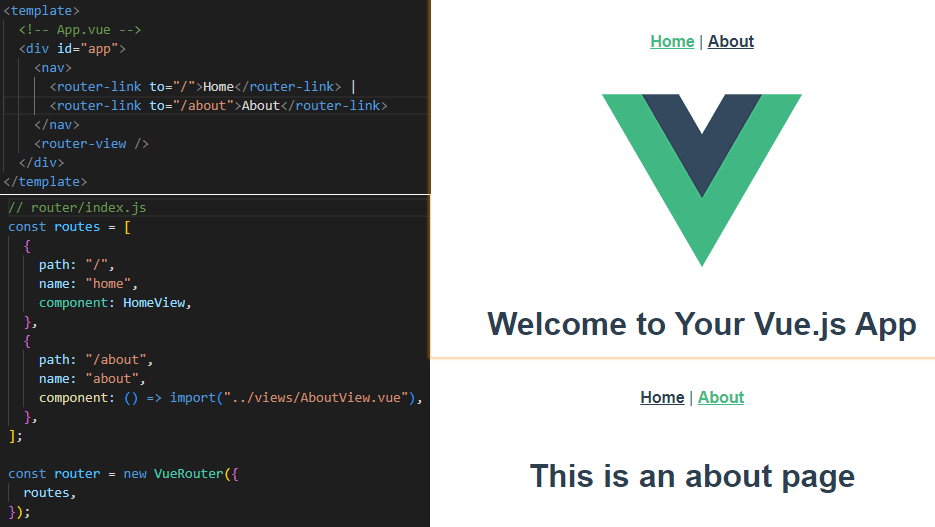
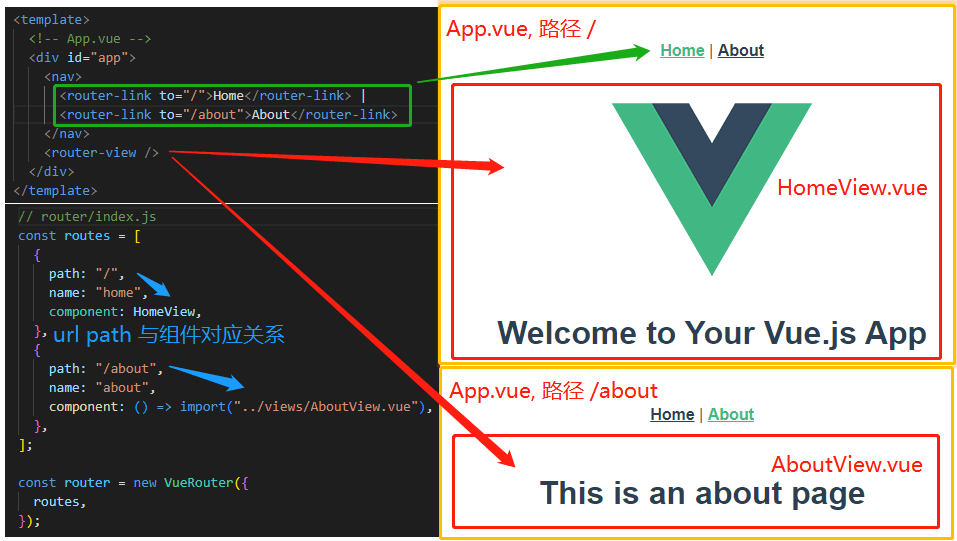
feat(2022-07): 更新 vue-router 实现文档，重新梳理叙述结构

Changed region(s): [[0.0, 0.0, 1.0, 1.0], [0.2791, 0.4554, 0.3412, 0.5465]]

diff --git a/src/notes/2022/7/vue2全家桶实现_1_手写实现vue_router_.md b/src/notes/2022/7/vue2全家桶实现_1_手写实现vue_router_.md
@@ -1,6 +1,8 @@
 # Vue2全家桶实现: (1)手写实现vue-router
 
-## 准备工作
+## vue-router 相关面试题
+
+## 实现前准备工作
 
 首先我们使用 `@vue/cli` 生成一个基本的脚手架
 
@@ -11,19 +13,66 @@ vue create vue2-implement
 
 选择 vue2 + vue-router/hash模式 + js + vuex + eslint/prettier + sass + pnpm
 
-在 github/github/... 上创建一个同名仓库，将该项目同步到远程仓库，防止电脑更换，代码丢失
+在 github/gitlab/gitee... 上创建一个同名仓库，将该项目同步到远程仓库，防止电脑更换，代码丢失
 
 ![code_router_1_prepare.png](../../../../src/images/blog/vue-source/code_router_1_prepare.png)
 
-## 实现思路
+## vue-router基础使用与运行原理
+
+下来看下面这张图
+
+```bash
+# 页面 URL(hash模式)
+http://localhost:8080/#/  # 首页
+http://localhost:8080/#/about # 关于
+```
+
+- App.vue 结构页中 router-view 组件用于占位
+
+- 当监听到页面 url 变化时，根据 url - 组件对应关系更新 router-view 占位处显示的组件
+
+![code_router_3_router_replace.png](../../../../src/images/blog/vue-source/code_router_3_router_replace.png)
+
+更多细节
+
+- 单页面 url 切换，通过监听hashchange 或 history 相关 api触发，分别对应 hash / history 模式
+- url 与 组件对应关系，在 new VueRouter() 时，通过 routes 参数传递
+- router-view 通过 render 实现，可以根据当前 url （用一个变量存储）实时切换不同组件。当监听到页面url切换时，会修改该变量。
+- rotuer-link 以及程序化($router.push等)跳转，会根据路由模式(hash/history) 来决定以什么方式修改页面 url
+
+全局组件 router-view、router-link、$router 等是怎么注入到全局的？
+
+如下图，通过 Vue 插件规范，使用 Vue.use(VueRouter) ，实现 install 方法，注入逻辑
+
+![code_router_2_silu.png](../../../../src/images/blog/vue-source/code_router_2_silu.png)
+
+理论上 router/index.js 中可以拿到 router 实例，可以直接 Vue.use(MyPlugin, { someOption: true, router }) 将 router 实例传给 install 方法。
+
+但为什么需要导出 router 实例，然后在 main.js 中 new Vue() 时当做参数传入？这里作为一个思考题，下面我们来看具体实现
+
+```js
+// main.js
+import Vue from "vue";
+import App from "./App.vue";
+import router from "./router";
+import store from "./store";
+
+Vue.config.productionTip = false;
+
+new Vue({
+  router,
+  store,
+  render: (h) => h(App),
+}).$mount("#app");
+```
+
+## 开始实现
 
 vue-router 引入逻辑在 src/router/index.js 中，通过 "vue-router" npm 包引入 VueRouter。如果要手写 vue-router，可以从这里入手。
 
 ```js
 import VueRouter from "vue-router";
 ```
-
-![code_router_2_silu.png](../../../../src/images/blog/vue-source/code_router_2_silu.png)
 
 实现第一步：从我们自己写的 MyVueRouter.js 中引入 VueRouter
 
@@ -41,42 +90,46 @@ class MyVueRouter {
 export default MyVueRouter;
 ```
 
-第二步：实现基础方法、组件
+下面实现基础方法、组件
 
-- Vue.use(VueRouter) 需要实现 Vue 插件方法 VueRouter.install
-- const router = new VueRouter({ routes })；export default router; 需要实现 constructor 构造方法 ，处理传参，返回实例
+## new VueRouter 路由配置保存
 
-```bash
-# 页面 URL(hash模式)
-http://localhost:8080/#/  # 首页
-http://localhost:8080/#/about # 关于
-```
+const router = new VueRouter({ routes })；export default router; 需要实现 constructor 构造方法 ，处理传参，返回实例
 
-![code_router_3_router_replace.png](../../../../src/images/blog/vue-source/code_router_3_router_replace.png)
+### url地址与组件对应关系数据打平
 
-- 全局组件
-  - router-view 路由组件占位。url 改变，根据 routes 配置，将 router-view 替换为具体的组件
-  - router-link  a 标签封装
-- 路由切换替换 router-view 逻辑
-  - hash 模式，监听 hashchange 事件，window.addEventListener('hashchange', cb)
-  - history 模式，监听 history.back()、history.forward()、history.go() 等，参考：[url 变化监听 - 语雀](https://www.yuque.com/guoqzuo/csm14e/xwagc7#orG4y)
-- 查看以下代码，为什么在 router.js 中导出 router 后，在 new Vue 时作为参数传入，主要作用是什么？  注入 `$router` 到所有组件
+### url地址切换监听，更换页面组件
 
-```js
-// main.ts
-import Vue from "vue";
-import App from "./App.vue";
-import router from "./router";
-import store from "./store";
+路由切换替换 router-view 逻辑
 
-Vue.config.productionTip = false;
+- hash 模式，监听 hashchange 事件，window.addEventListener('hashchange', cb)
+- history 模式，监听 history.back()、history.forward()、history.go() 等，参考：[url 变化监听 - 语雀](https://www.yuque.com/guoqzuo/csm14e/xwagc7#orG4y)
 
-new Vue({
-  router,
-  store,
-  render: (h) => h(App),
-}).$mount("#app");
+## Vue.use(VueRouter) 插件 install 方法实现
 
-```
+Vue.use(VueRouter) 需要实现 Vue 插件方法 VueRouter.install
 
-- 程序化跳转、路由钩子
+全局组件
+
+- router-view 路由组件占位。url 改变时，根据 routes 配置，将 router-view 替换为具体的组件
+- router-link  a 标签封装
+
+### 全局组件 router-view
+
+### 全局组件 router-link
+
+### 全局变量 vue-router 实例 $router
+
+为什么在 router.js 中导出 router 后，在 new Vue 时作为参数传入，主要作用是什么？  
+
+注入 `$router` 到所有组件
+
+## 程序化跳转
+
+## 路由钩子（守卫）
+
+## vue-router 插件
+
+## 转载声明
+
+除 微信公众号 可以转载外，其他平台禁止转载
